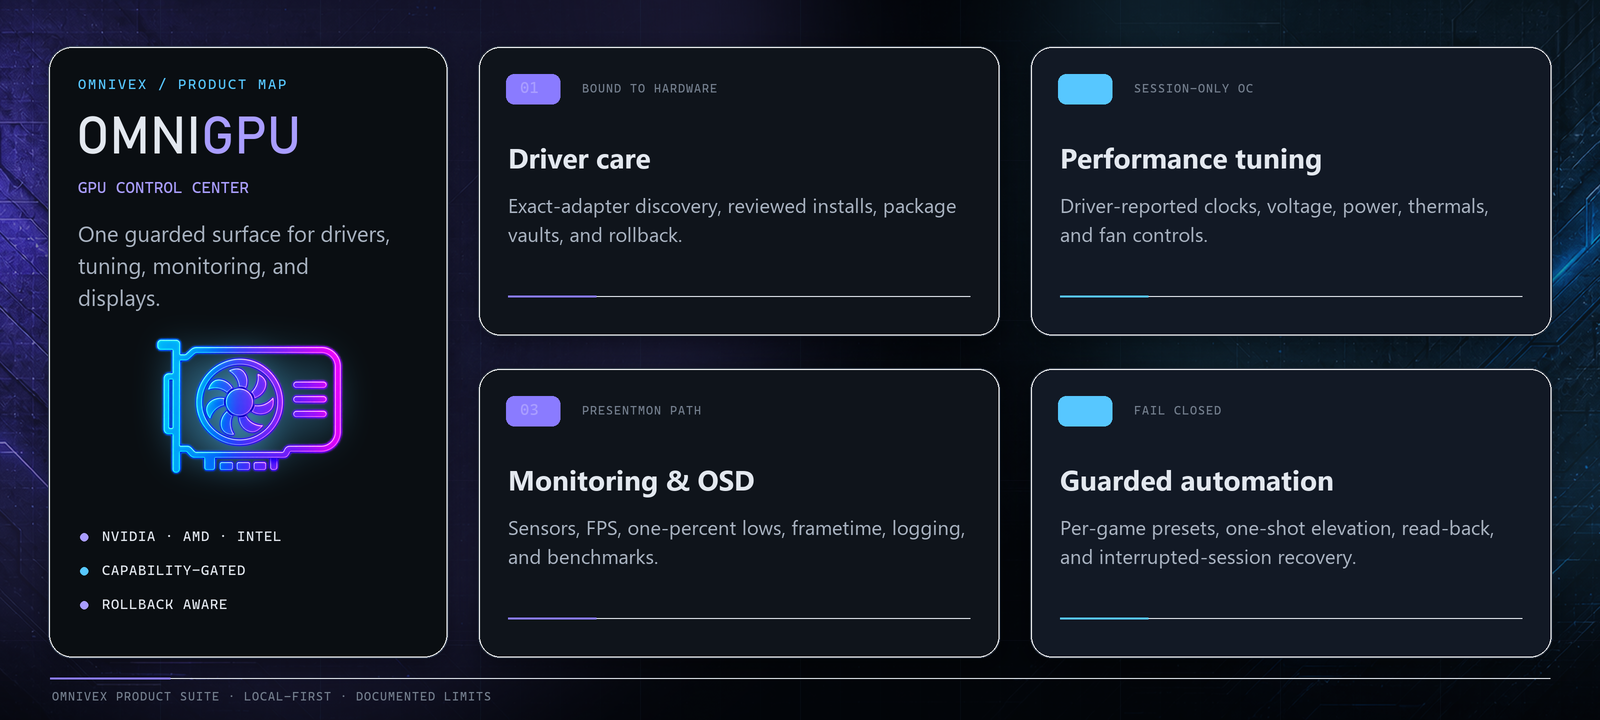
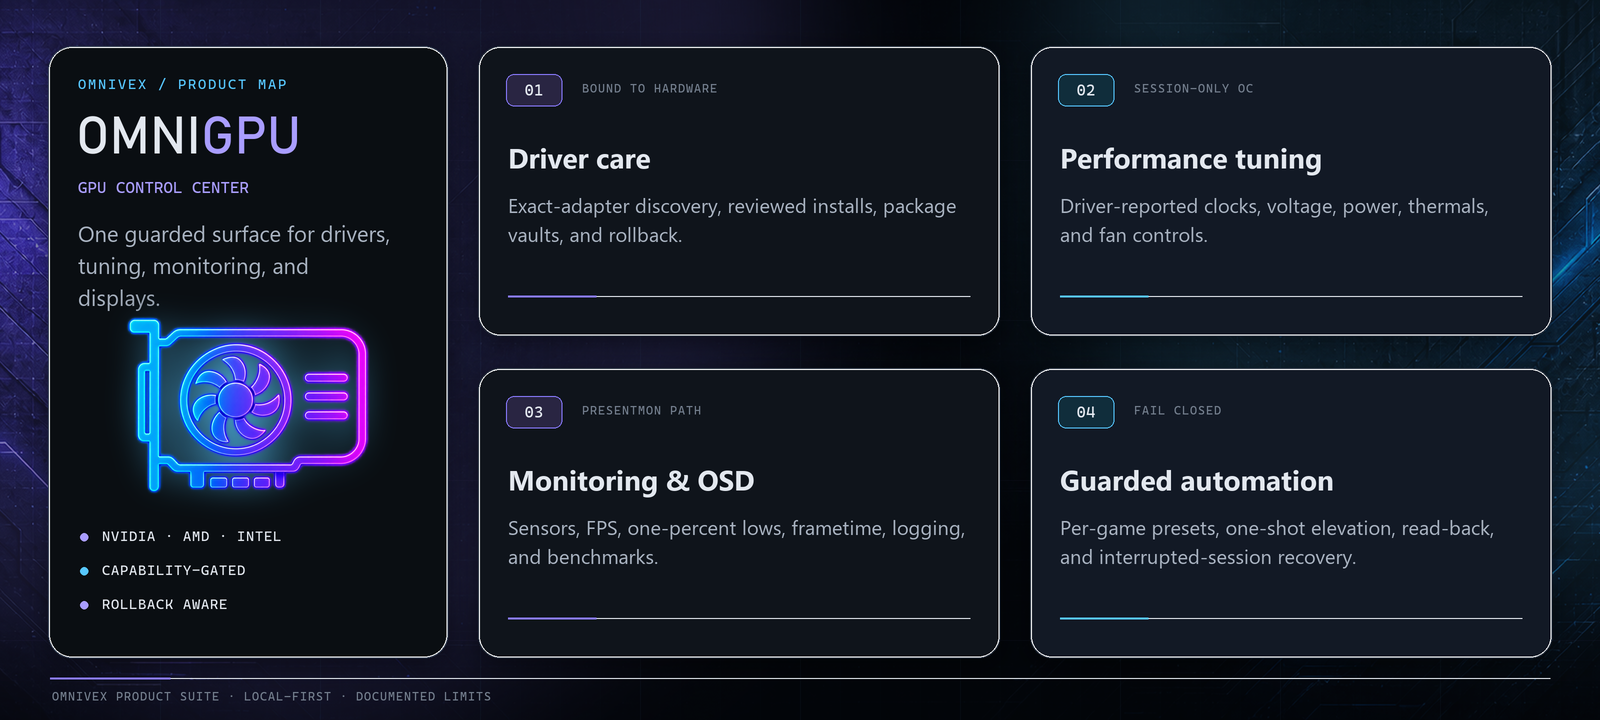
fix: show centered capability numbers (#13)

diff --git a/README.md b/README.md
@@ -58,7 +58,7 @@ It detects the exact physical adapter first, then exposes only the controls repo
 
 ## What OmniGPU brings together
 
-![OmniGPU capability map covering driver care, capability-gated performance tuning, monitoring and OSD, and guarded automation](assets/presentation/capabilities.png)
+![OmniGPU capability map covering driver care, capability-gated performance tuning, monitoring and OSD, and guarded automation](assets/presentation/capabilities.png?v=20260823-visible-numbers-v3)
 
 | Area | What you get |
 |---|---|
